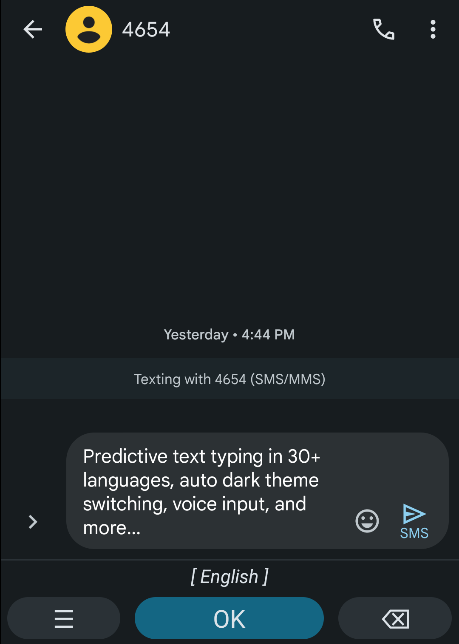
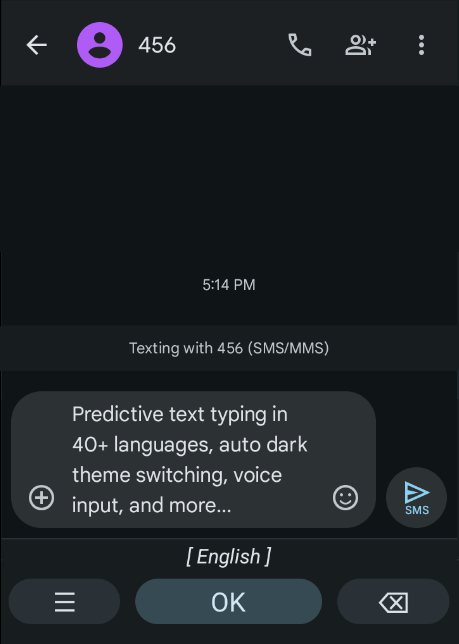
updated documentation and screenshots

diff --git a/README.md b/README.md
@@ -1,6 +1,6 @@
 # Traditional T9 ![GitHub Downloads (latest release)](https://img.shields.io/github/downloads/sspanak/tt9/latest/total)
 
-TT9 is a 12-key T9 keyboard for devices with a hardware numpad. It supports predictive text typing in [30+ languages](app/languages/definitions), configurable hotkeys, and an on-screen keypad that can turn your smartphone into a Nokia from the 2000s. And, best of all, it doesn't spy on you!
+TT9 is a 12-key T9 keyboard for devices with a hardware numpad. It supports predictive text typing in [40+ languages](app/languages/definitions), configurable hotkeys, and an on-screen keypad that can turn your smartphone into a Nokia from the 2000s. And, best of all, it [doesn't spy](docs/privacy.md) on you!
 
 This is a modernized version of the [original project](https://github.com/Clam-/TraditionalT9) by Clam-.
 
@@ -30,13 +30,13 @@ _If your phone does not have Google Play and does not allow installing custom AP
 ## ⚙ System Requirements
 - Android 5.0 or higher.
 - A hardware keypad or a keyboard. For touchscreen-only devices, an on-screen keypad can be activated from the Settings.
-- Storage space depends on the Android version. The lite version requires at least 5-8 Mb and the full version requires at least 160 Mb.
+- Storage space depends on the Android version. The lite version requires at least 6-8 Mb and the full version requires at least 180 Mb.
 - Extra storage space is necessary for language dictionaries in Predictive Mode.
     - Languages with character predictions only (Korean): ~1 Mb per language
     - Tiny languages (< 100k words; Kiswahili, Indonesian, Vietnamese): 5-6 Mb per language.
     - Small languages (100k-400k words; e.g. English, Norwegian, Swedish, Finnish, German, French): 15-30 Mb per language.
-    - Medium languages (400k-800k words; e.g. Danish, Greek, Italian, Portuguese): 40-75 Mb per language
-    - Large languages (800k-1.5M words; e.g. Arabic, Bulgarian, Hebrew, Romanian, Spanish): 100-165 Mb per language
+    - Medium languages (400k-800k words; e.g. Chinese, Danish, Greek, Italian, Portuguese): 40-75 Mb per language
+    - Large languages (800k-1.6M words; e.g. Arabic, Bulgarian, Hebrew, Japanese, Romanian, Spanish): 100-170 Mb per language
 
 _Storage usage for the dictionaries depends on the word root count and the average word length in each language. Some languages will require more space, even if they have fewer words than others._
 
@@ -74,18 +74,17 @@ If you want to show appreciation, give the project a star on GitHub. Higher-rank
 
 You could also donate on [PayPal](https://www.paypal.com/donate/?hosted_button_id=LW97X3JM2CRZC).
 
-## 💪 Philosophy and Privacy Policy
+## 💪 Philosophy
 - No ads, no premium or paid features. It's all free.
 - No spying, no tracking, no telemetry or reports. No nothing!
 - No unnecessary bells or whistles. It only does its job, typing.
-- The Full version operates entirely offline with no Internet permission. The Lite version connects only when downloading dictionaries from GitHub and when the voice input is active.
+- No unnecessary permissions. The Full version operates entirely offline, the Lite version connects only to download dictionaries from GitHub. Voice Input may require Internet access depending on the available voice services.
 - Open-source, so you can verify all the above yourself.
 - Created with help from the entire community.
-- Things it will (probably) never have: QWERTY layout, swipe-typing, GIFs and stickers, backgrounds or other customizations. "It can be any color you like, as long as it is black."
-- Not intended as a clone of Sony Ericsson, Nokia C2, Samsung, Touchpal, etc. It is understandable to miss your favorite old phone or keyboard app, but TT9 has its own unique design, inspired by the Nokia 3310 and 6303i. While it captures the feel of the classics, it offers its own experience and won’t replicate any device exactly.
+- Things it will (probably) never have: QWERTY layout, swipe-typing, GIFs and stickers, backgrounds, or other customizations. "It can be any color you like, as long as it is black."
+- Not intended as a clone of Touchpal, Sony Ericsson, Nokia C2, Samsung, etc. It is understandable to miss your favorite old phone or keyboard app, but TT9 has its own unique design, inspired by the Nokia 3310 and 6303i. While it captures the feel of the classics, it offers its own experience and won’t replicate any device exactly.
 
 Thank you for understanding, and enjoy TT9!
-
 
 ## 🕮 License
 - The source code, the logo image, and the icons are licensed under the conditions described in [LICENSE.txt](LICENSE.txt).

diff --git a/docs/privacy.md b/docs/privacy.md
@@ -1,6 +1,6 @@
 # Privacy Policy
 
-**Effective Date:** 2025-01-01
+**Effective Date:** 2025-04-11
 
 Thank you for using Traditional T9. Your privacy is a priority. This Privacy Policy explains how the app handles your data.
 
@@ -13,12 +13,16 @@ The app does not contain any analytics, advertising trackers, or background data
 ## **Two Versions: Full and Lite**
 There are two versions of the app:
 
-- **Full Version**: Operates **completely offline** and does not require Internet access. This version has **no network permissions** and guarantees absolute privacy.
-- **Lite Version**: Requires an Internet connection only in two specific cases:
-  1. **Downloading dictionaries from GitHub** (when requested by the user).
-  2. **Using voice input** (which relies on external speech recognition services).
+- **Full Version**: Operates **completely offline** and does not require Internet access. This version has **no network permissions** and guarantees maximum privacy.
+- **Lite Version**: Requires an Internet connection only when **downloading dictionaries from GitHub** (only at user's request). Aside from this, the Lite version does not make any other network requests.
 
-Aside from these two cases, the Lite version does not make any other network requests.
+## **Using Voice Input**
+Voice input functionality in Traditional T9 relies on external speech recognition services, which may require an Internet connection to operate. These services are not part of Traditional T9 and function independently.
+
+When voice input is activated, your speech may be sent to third-party providers for processing. Traditional T9 does not record, transmit, or process the voice data, and cannot guarantee how external services handle your information.
+
+If you are concerned about this, you may choose not to use the Voice Input feature and deny Microphone permissions when prompted.
+
 
 ## **Open-Source Transparency**
 Traditional T9 is **open-source**, meaning that anyone can review the source code to verify the privacy claims above. You can inspect the code yourself to ensure that the app does not collect or transmit any data.
